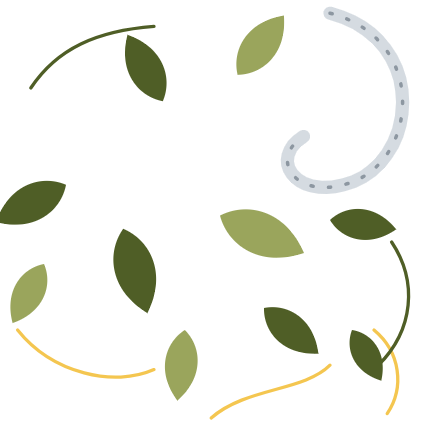
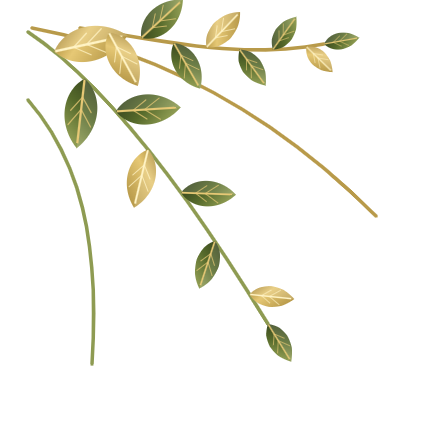
Replace flowers with olive and gold leaf sprigs

diff --git a/src/components/FloraArt.jsx b/src/components/FloraArt.jsx
@@ -1,75 +1,63 @@
-// VECTOR SOURCE of the bouquet art. Not used at runtime: public/decor/flora-*.png are baked from this (render <Flora/> from this file in a
-// page and screenshot each .flora__layer with a transparent background; viewBox -10 -10 220 220). Edit here, then re-bake.
-const EASE = [0.22, 1, 0.36, 1];
-const C = { pink: '#D4AF37', pinkL: '#F3DE94', orange: '#B98A1E', orangeL: '#F7EBC4', blue: '#B9C1CA', blueL: '#E9EDF1', red: '#C9D0D8', leaf: '#4F5E26', leafL: '#9AA55C', gold: '#F4C650', yellow: '#E9CB6B', violet: '#6B7A32', violetL: '#B5BE7A', swirl: '#D5DBE1', navy: '#8D97A1' };
-const MIRROR = { tl: 'none', tr: 'scaleX(-1)', br: 'scale(-1,-1)', bl: 'scaleY(-1)' };
-const ORIGIN = { tl: '0 0', tr: '100% 0', br: '100% 100%', bl: '0 100%' };
+// Vector source for the leafy corner sprigs (not used at runtime). To re-bake public/decor/flora-1..3.png: render <Flora/> in a temporary
+// page and screenshot groups of .flora__layer ([0,1],[2],[3,4]) with a transparent background. Edit here, then re-bake.
+// Style: deep olive leaves with gold veins, and metallic gold leaves.
+const LEAF = 'M0 0 C7 -10 23 -11 34 0 C23 11 7 10 0 0Z';
+const Defs = () => (
+  <defs>
+    <linearGradient id="gOlive" x1="0" y1="0" x2="1" y2="0.4"><stop offset="0" stopColor="#2F3C1A" /><stop offset="0.55" stopColor="#566A2B" /><stop offset="1" stopColor="#8E9B52" /></linearGradient>
+    <linearGradient id="gGold" x1="0" y1="0" x2="1" y2="0.5"><stop offset="0" stopColor="#9C7C2B" /><stop offset="0.45" stopColor="#E6C875" /><stop offset="1" stopColor="#B89A4A" /></linearGradient>
+  </defs>
+);
+const Leaf = ({ x, y, r, s = 1, gold }) => (
+  <g transform={`translate(${x} ${y}) rotate(${r}) scale(${s})`}>
+    <path d={LEAF} fill={gold ? 'url(#gGold)' : 'url(#gOlive)'} />
+    <path d="M0 0 C7 -10 23 -11 34 0 Z" fill="#fff" opacity=".13" />
+    <path d="M1 0 H31" stroke={gold ? '#FFF3C4' : '#E6C875'} strokeWidth="1.1" strokeLinecap="round" fill="none" />
+    <path d="M9 0 L16 -5 M15 0 L23 -5.5 M9 0 L16 5 M15 0 L23 5.5" stroke={gold ? '#FFF3C4' : '#E6C875'} strokeWidth=".6" strokeLinecap="round" fill="none" opacity=".75" />
+  </g>
+);
+const STEMS = [
+  { p: [[4, 6], [40, 30], [80, 80], [124, 152]], gold: false, sc: 1.05 },
+  { p: [[6, 4], [60, 14], [120, 40], [178, 98]], gold: true, sc: 1 },
+  { p: [[4, 40], [30, 70], [40, 110], [36, 172]], gold: true, sc: 0.9 },
+  { p: [[30, 4], [70, 10], [110, 20], [152, 12]], gold: false, sc: 0.85 },
+];
+const at = ([a, b, c, d], t) => {
+  const u = 1 - t;
+  const x = u * u * u * a[0] + 3 * u * u * t * b[0] + 3 * u * t * t * c[0] + t * t * t * d[0];
+  const y = u * u * u * a[1] + 3 * u * u * t * b[1] + 3 * u * t * t * c[1] + t * t * t * d[1];
+  return [x, y];
+};
+const stemLeaves = (st, flip) => {
+  const out = [];
+  for (let i = 0; i < 7; i += 1) {
+    const t = 0.12 + i * 0.135;
+    const [x, y] = at(st.p, t);
+    const [x2, y2] = at(st.p, Math.min(1, t + 0.02));
+    const ang = (Math.atan2(y2 - y, x2 - x) * 180) / Math.PI;
+    const side = (i + flip) % 2 ? 1 : -1;
+    out.push({ x, y, r: ang + side * 52, s: st.sc * (1.05 - i * 0.07), gold: st.gold ? i % 3 !== 0 : i % 3 === 0 });
+  }
+  const [ex, ey] = at(st.p, 1);
+  const [bx, by] = at(st.p, 0.97);
+  out.push({ x: ex, y: ey, r: (Math.atan2(ey - by, ex - bx) * 180) / Math.PI, s: st.sc * 0.62, gold: st.gold });
+  return out;
+};
+const Layer = ({ d, children }) => <svg className="flora__layer" viewBox="-10 -10 220 220" style={{ '--d': `${d}s` }}><Defs />{children}</svg>;
 
-const LEAF = 'M0 0 C8 -10 24 -13 38 0 C24 13 8 10 0 0Z';
-const LILY = 'M0 0 C-11 -14 -9 -36 0 -46 C9 -36 11 -14 0 0Z';
-
-const ring = (n, r, rx, ry, fill, rot = 0) => Array.from({ length: n }, (_, i) => <ellipse key={i} cx="0" cy={-r} rx={rx} ry={ry} fill={fill} transform={`rotate(${rot + (i * 360) / n})`} />);
-
-/* Each bouquet is a few stacked SVG layers. The layers (not the dozens of parts inside them) are what animate, in CSS,
-   so the browser only composites them: stems, then leaves, then the big flowers, then the small ones, then the details. */
-const Bloom = ({ x, y, s = 1, rot = 0, children }) => <g transform={`translate(${x} ${y}) rotate(${rot}) scale(${s})`}>{children}</g>;
-const Leaf = ({ x, y, r, s = 1, fill }) => <g transform={`translate(${x} ${y}) rotate(${r}) scale(${s})`}><path d={LEAF} fill={fill} /></g>;
-const Layer = ({ d, children }) => <svg className="flora__layer" viewBox="0 0 200 200" style={{ '--d': `${d}s` }}>{children}</svg>;
-
-/**
- * A colourful bouquet for a frame corner: pink, orange, blue, violet and yellow flowers, berry sprigs,
- * green leaves, a blue swirl and baby's-breath. Drawn for the top-left corner; other corners mirror it.
- */
-export default function Flora({ corner = 'tl', size = 120, offset = 0, on = true, delay = 0, className = '' }) {
-  const pos = { tl: { top: offset, left: offset }, tr: { top: offset, right: offset }, br: { bottom: offset, right: offset }, bl: { bottom: offset, left: offset } }[corner];
+export default function Flora({ size = 440 }) {
   return (
-    <div className={`flora ${on ? 'is-on' : ''} ${className}`} style={{ ...pos, width: size, height: size, transformOrigin: ORIGIN[corner], '--base': `${delay}s` }} aria-hidden="true">
-      <div className="flora__mirror" style={{ transform: MIRROR[corner] }}>
-        <Layer d={0}>
-          <path d="M150 6 C196 18 190 76 156 84 C134 90 122 72 138 62" fill="none" stroke={C.swirl} strokeWidth="6" strokeLinecap="round" />
-          <path d="M150 6 C196 18 190 76 156 84 C134 90 122 72 138 62" fill="none" stroke={C.navy} strokeWidth="1.6" strokeLinecap="round" strokeDasharray="1 7" />
-          {['M8 150 C24 170 52 176 70 168', 'M96 190 C112 176 138 178 150 166', 'M170 150 C182 160 184 176 176 188', 'M14 40 C26 22 44 14 70 12', 'M178 110 C190 128 188 150 172 166'].map((dd, i) => <path key={i} d={dd} fill="none" stroke={i > 2 ? C.leaf : C.gold} strokeWidth="1.5" strokeLinecap="round" />)}
-        </Layer>
-        <Layer d={0.3}>
-          {[[56, 104, 74, 1.05, C.leaf], [100, 98, 24, 1.1, C.leafL], [30, 84, 152, 0.95, C.leaf], [108, 34, -52, 0.9, C.leafL], [74, 46, -118, 0.9, C.leaf], [120, 140, 40, 0.85, C.leaf], [20, 120, 118, 0.8, C.leafL], [150, 100, 8, 0.8, C.leaf], [84, 150, 96, 0.85, C.leafL], [160, 150, 60, 0.7, C.leaf]].map(([x, y, r, sc, fill], i) => <Leaf key={i} x={x} y={y} r={r} s={sc} fill={fill} />)}
-        </Layer>
-        <Layer d={0.75}>
-          <Bloom x={78} y={80}>
-            {ring(10, 20, 9, 19, C.pink)}{ring(10, 12, 6, 12, C.pinkL, 18)}<circle r="7.5" fill={C.gold} />
-            {Array.from({ length: 6 }, (_, i) => <circle key={i} cx={Math.cos((i * Math.PI) / 3) * 4} cy={Math.sin((i * Math.PI) / 3) * 4} r="1.1" fill="#C98B1C" />)}
-          </Bloom>
-          <Bloom x={142} y={52} s={0.8} rot={-10}>
-            {Array.from({ length: 6 }, (_, i) => <g key={i} transform={`rotate(${i * 60})`}><path d={LILY} fill={C.orange} /><path d={LILY} fill={C.orangeL} transform="scale(.5)" /></g>)}
-            <circle r="5" fill={C.gold} />
-          </Bloom>
-          <Bloom x={44} y={136} s={0.95}>{ring(5, 14, 11.5, 15, C.blue)}{ring(5, 9, 6.5, 9, C.blueL, 36)}<circle r="5.5" fill="#fff" /><circle r="2.4" fill={C.gold} /></Bloom>
-        </Layer>
-        <Layer d={1.1}>
-          <Bloom x={160} y={110} s={0.6} rot={14}>{ring(6, 15, 8, 15, C.violet)}{ring(6, 9, 5, 9, C.violetL, 30)}<circle r="5" fill={C.yellow} /></Bloom>
-          <Bloom x={118} y={128} s={0.72} rot={20}>{ring(9, 19, 8, 17, C.pinkL)}{ring(9, 11, 5, 10, C.pink, 20)}<circle r="6" fill={C.orange} /></Bloom>
-          <Bloom x={20} y={66} s={0.55}>{ring(8, 17, 6, 14, C.yellow)}<circle r="6" fill={C.orange} /></Bloom>
-          <Bloom x={132} y={160} s={0.46}>{ring(7, 14, 7, 13, C.orangeL)}<circle r="5" fill={C.pink} /></Bloom>
-          <Bloom x={96} y={172} s={0.42}>{ring(6, 14, 7, 13, C.blueL)}<circle r="4.5" fill={C.gold} /></Bloom>
-          <Bloom x={12} y={100} s={0.42}>{ring(5, 14, 8, 12, C.violetL)}<circle r="4" fill={C.gold} /></Bloom>
-          <Bloom x={106} y={14} s={0.4}>{ring(6, 14, 7, 12, C.pinkL)}<circle r="4" fill={C.gold} /></Bloom>
-        </Layer>
-        <Layer d={1.45}>
-          {[[22, 30], [34, 20], [48, 15], [60, 12], [28, 40], [42, 28]].map(([x, y], i) => <circle key={i} cx={x} cy={y} r="3.4" fill={C.red} />)}
-          {[[180, 116], [187, 130], [186, 146], [178, 160]].map(([x, y], i) => <circle key={i} cx={x} cy={y} r="3.2" fill={C.orange} />)}
-          {[[64, 140], [70, 150], [58, 152], [150, 138], [158, 128], [100, 60], [34, 100], [92, 112], [128, 84], [8, 76], [60, 30], [168, 74]].map(([x, y], i) => <circle key={i} cx={x} cy={y} r="1.8" fill="#fff" fillOpacity="0.92" />)}
-        </Layer>
-      </div>
+    <div className="flora" style={{ width: size, height: size }}>
+      <Layer d={0}>
+        {STEMS.map((st, i) => <path key={i} d={`M${st.p[0]} C${st.p[1]} ${st.p[2]} ${st.p[3]}`} fill="none" stroke={i % 2 ? '#B89A4A' : '#8E9B52'} strokeWidth="1.8" strokeLinecap="round" />)}
+      </Layer>
+      <Layer d={0}>{stemLeaves(STEMS[0], 0).map((l, i) => <Leaf key={i} {...l} />)}{stemLeaves(STEMS[3], 1).map((l, i) => <Leaf key={i} {...l} />)}</Layer>
+      <Layer d={0.5}>{stemLeaves(STEMS[1], 1).map((l, i) => <Leaf key={i} {...l} />)}</Layer>
+      <Layer d={1}>{stemLeaves(STEMS[2], 0).map((l, i) => <Leaf key={i} {...l} />)}</Layer>
+      <Layer d={1}>
+        {[[18, 22, 40, 0.9, true], [40, 12, 8, 0.8, false], [12, 54, 70, 0.8, true], [60, 38, 30, 0.7, false]].map(([x, y, r, s, g], i) => <Leaf key={i} x={x} y={y} r={r} s={s} gold={g} />)}
+        {[[28, 30], [52, 24], [24, 62]].map(([x, y], i) => <circle key={i} cx={x} cy={y} r="2.2" fill="#E6C875" />)}
+      </Layer>
     </div>
   );
 }
-
-/** A tiny five-petal blossom used on the footer vine, ribbon and frame garlands. */
-export function Blossom({ fill = C.pink, centre = C.gold, size = 18, className = '', x, y }) {
-  return (
-    <svg viewBox="-12 -12 24 24" width={size} height={size} x={x} y={y} className={className} aria-hidden="true">
-      {ring(5, 6, 4.6, 6.4, fill)}
-      <circle r="2.6" fill={centre} />
-    </svg>
-  );
-}
-export const BLOSSOM_COLOURS = [C.pink, C.orange, C.blue, C.violet, C.yellow];

diff --git a/src/components/Flora.jsx b/src/components/Flora.jsx
@@ -1,8 +1,8 @@
-// Colourful corner bouquets. The art lives in public/decor/flora-1..3.png (stems + leaves, big flowers, small flowers),
+// Leafy corner sprigs. The art lives in public/decor/flora-1..3.png (stems, olive leaves, gold leaves),
 // baked from the vector source in FloraArt.jsx so the browser only moves flat pictures (cheap) instead of painting hundreds of shapes.
 const MIRROR = { tl: 'none', tr: 'scaleX(-1)', br: 'scale(-1,-1)', bl: 'scaleY(-1)' };
 const ORIGIN = { tl: '0 0', tr: '100% 0', br: '100% 100%', bl: '0 100%' };
-const V = '4'; // bump when the baked art changes (the server caches images for a year)
+const V = '5'; // bump when the baked art changes (the server caches images for a year)
 const LAYERS = [[`/decor/flora-1.png?v=${V}`, 0], [`/decor/flora-2.png?v=${V}`, 0.5], [`/decor/flora-3.png?v=${V}`, 1]];
 
 /** A bouquet for a frame or section corner. Layers bloom in turn (CSS) once `on`, then the bouquet sways. */
@@ -17,19 +17,26 @@ export default function Flora({ corner = 'tl', size = 120, offset = 0, on = true
   );
 }
 
-/** A tiny blossom image used by the frame garlands (five colours, public/decor/blossom-0..4.png). */
+/** A tiny leaf-sprig image used by the frame garlands (five colours, public/decor/blossom-0..4.png). */
 export function GarlandBlossom({ index = 0, size = 18 }) {
   return <img src={`/decor/blossom-${index % 5}.png?v=${V}`} alt="" width={size} height={size} decoding="async" style={{ display: 'block' }} />;
 }
 
-// Small inline blossom for the footer vine and the ribbon.
-const PETAL = (n, r, rx, ry, fill) => Array.from({ length: n }, (_, i) => <ellipse key={i} cx="0" cy={-r} rx={rx} ry={ry} fill={fill} transform={`rotate(${(i * 360) / n})`} />);
-export function Blossom({ fill = '#D4AF37', centre = '#FFF6D6', size = 18, className = '', x, y, style }) {
+// Small inline leaf sprig (three leaves on a stem) for the footer vine, ribbon and frame corners. Named Blossom for historical reasons.
+const SPRIG = 'M0 0 C-4.6 -3 -4.6 -9 0 -12 C4.6 -9 4.6 -3 0 0Z';
+const SPRIG_HALF = 'M0 0 C4.6 -3 4.6 -9 0 -12Z';
+export function Blossom({ fill = '#566A2B', centre = '#E6C875', size = 18, className = '', x, y, style }) {
   return (
     <svg viewBox="-12 -12 24 24" width={size} height={size} x={x} y={y} className={className} style={style} aria-hidden="true">
-      {PETAL(5, 6, 4.6, 6.4, fill)}
-      <circle r="2.6" fill={centre} />
+      <path d="M0 11 V4" stroke={centre} strokeWidth="1" strokeLinecap="round" />
+      {[[-52, 0.78], [52, 0.78], [0, 1]].map(([r, sc], i) => (
+        <g key={i} transform={`translate(0 5) rotate(${r}) scale(${sc})`}>
+          <path d={SPRIG} fill={fill} />
+          <path d={SPRIG_HALF} fill="#fff" opacity=".18" />
+          <path d="M0 -.5 V-10.5" stroke={centre} strokeWidth=".9" strokeLinecap="round" />
+        </g>
+      ))}
     </svg>
   );
 }
-export const BLOSSOM_COLOURS = ['#D4AF37', '#B9C1CA', '#6B7A32', '#F3DE94', '#E3E7EB'];
+export const BLOSSOM_COLOURS = ['#566A2B', '#C9A24A', '#3F4E21', '#8E9B52', '#E0BE63'];

diff --git a/src/components/DecorFrame.jsx b/src/components/DecorFrame.jsx
@@ -12,12 +12,12 @@ function framePath(w, h, radii) {
   return `M${tl},0 H${w - tr} A${tr},${tr} 0 0 1 ${w},${tr} V${h - br} A${br},${br} 0 0 1 ${w - br},${h} H${bl} A${bl},${bl} 0 0 1 0,${h - bl} V${tl} A${tl},${tl} 0 0 1 ${tl},0 Z`;
 }
 
-// A small flowering sprig drawn for the top-left corner; the other corners mirror it. Blossoms open one after another.
+// A small leafy sprig drawn for the top-left corner; the other corners mirror it. Leaves unfurl one after another.
 const BLOOMS = [
-  { x: 6, y: 33, s: 11, c: '#E6C875' },
-  { x: 12, y: 20, s: 14, c: '#D4AF37' },
-  { x: 24, y: 11, s: 12, c: '#F1E3A8' },
-  { x: 38, y: 7, s: 10, c: '#D4AF37' },
+  { x: 6, y: 33, s: 11, c: '#C9A24A' },
+  { x: 12, y: 20, s: 14, c: '#566A2B' },
+  { x: 24, y: 11, s: 12, c: '#8E9B52' },
+  { x: 38, y: 7, s: 10, c: '#3F4E21' },
 ];
 const MIRROR = { tl: 'none', tr: 'scaleX(-1)', br: 'scale(-1,-1)', bl: 'scaleY(-1)' };
 
@@ -30,7 +30,7 @@ function Sprig({ corner, size, offset, on, delay, reduce }) {
       {BLOOMS.map((l, i) => (
         <g key={i} transform={`translate(${l.x} ${l.y})`}>
           <motion.g style={{ transformBox: 'fill-box', transformOrigin: 'center' }} initial={{ scale: 0, rotate: -120, opacity: 0 }} animate={{ scale: on ? 1 : 0, rotate: on ? 0 : -120, opacity: on ? 1 : 0 }} transition={reduce ? { duration: 0 } : { type: 'spring', stiffness: 120, damping: 11, delay: delay + 0.35 + i * 0.14 }}>
-            <Blossom fill={l.c} centre="#6B7A32" size={l.s} x={-l.s / 2} y={-l.s / 2} />
+            <Blossom fill={l.c} centre="#E6C875" size={l.s} x={-l.s / 2} y={-l.s / 2} />
           </motion.g>
         </g>
       ))}
@@ -45,7 +45,7 @@ const STARS = [
 ];
 
 /**
- * A frame that decorates itself: a gold line draws around the edge, flowering sprigs bloom into the corners
+ * A frame that decorates itself: a gold line draws around the edge, leafy sprigs unfurl into the corners
  * and small sparkles twinkle. Place inside a `position: relative` parent. `inset` can be negative to sit outside.
  * `radii` = [tl, tr, br, bl] (px). `replayKey` re-grows the ornaments (for slideshows).
  */

diff --git a/src/components/Ambient.jsx b/src/components/Ambient.jsx
@@ -56,7 +56,7 @@ export default function SectionDecor({ tone = 'light' }) {
           <Flora corner="bl" size={150} offset={-34} on={live} delay={0.4} className="flora--edge flora--edge-br" />
           {live && <Petals />}
           {live && FALL.filter((_, i) => i % 3 !== 2).map((l, i) => (
-            <Blossom key={i} className="ambient__leaf ambient__flower" fill={['#D4AF37', '#E6C875', '#8A9A4A'][i % 3]} centre="#F4E7B0" size={l.s + 6} style={{ left: `${l.x}%`, '--dx': `${l.dx}px`, '--r': `${l.r}deg`, animationDuration: `${l.d}s`, animationDelay: `${l.t}s` }} />
+            <Blossom key={i} className="ambient__leaf ambient__flower" fill={['#566A2B', '#C9A24A', '#8E9B52'][i % 3]} centre="#E6C875" size={l.s + 6} style={{ left: `${l.x}%`, '--dx': `${l.dx}px`, '--r': `${l.r}deg`, animationDuration: `${l.d}s`, animationDelay: `${l.t}s` }} />
           ))}
         </>
       ) : (

diff --git a/src/components/Footer.jsx b/src/components/Footer.jsx
@@ -14,7 +14,7 @@ function Vine() {
       {VINE.map((l, i) => (
         <g key={i} transform={`translate(${l.x} ${l.up ? 14 : 30})`}>
           <motion.g style={{ transformBox: 'fill-box', transformOrigin: 'center' }} initial={{ scale: 0, rotate: -90 }} whileInView={{ scale: 1, rotate: 0 }} viewport={{ once: true, margin: '-40px' }} transition={{ type: 'spring', stiffness: 130, damping: 11, delay: 0.5 + i * 0.13 }}>
-            <Blossom fill={['#D4AF37', '#E6C875', '#F1E3A8'][i % 3]} centre="#6B7A32" size={15} x={-7.5} y={-7.5} />
+            <Blossom fill={['#566A2B', '#C9A24A', '#8E9B52'][i % 3]} centre="#E6C875" size={15} x={-7.5} y={-7.5} />
           </motion.g>
         </g>
       ))}
